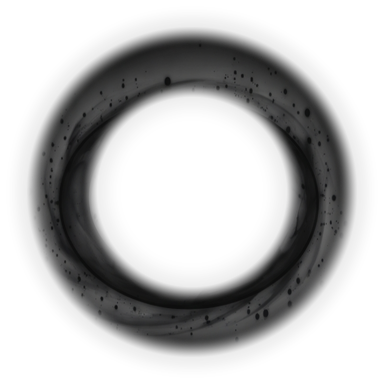
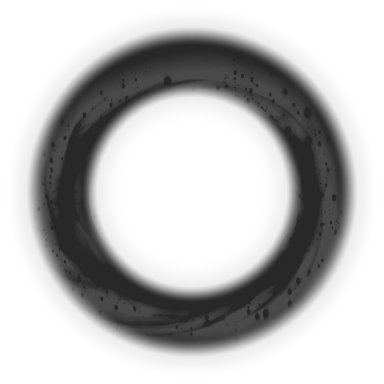
更

diff --git a/天堂網頁版/index.html b/天堂網頁版/index.html
@@ -1,4 +1,4 @@
-<!doctype html><html lang="zh-Hant"><meta charset="utf-8"><meta name="viewport" content="width=device-width,initial-scale=1,viewport-fit=cover"><link rel="stylesheet" href="mobile.css"><link rel="stylesheet" href="data/entry-screens.css?v=20261105-clean17"><link rel="stylesheet" href="data/character-creation.css?v=dice-button-top2"><link rel="stylesheet" href="data/game-stage.css?v=layout-fix"><link rel="stylesheet" href="data/reference-menu.css?v=panel-ground-input1"><link rel="stylesheet" href="data/reference-skin.css?v=1"><link rel="stylesheet" href="data/game-catalog.css?v=approved-rings6"><title>天堂網頁版｜說話之島</title><style>
+<!doctype html><html lang="zh-Hant"><meta charset="utf-8"><meta name="viewport" content="width=device-width,initial-scale=1,viewport-fit=cover"><link rel="stylesheet" href="mobile.css"><link rel="stylesheet" href="data/entry-screens.css?v=20261105-clean17"><link rel="stylesheet" href="data/character-creation.css?v=dice-button-top2"><link rel="stylesheet" href="data/game-stage.css?v=layout-fix"><link rel="stylesheet" href="data/reference-menu.css?v=panel-ground-input1"><link rel="stylesheet" href="data/reference-skin.css?v=1"><link rel="stylesheet" href="data/game-catalog.css?v=reverse-rings7"><title>天堂網頁版｜說話之島</title><style>
 *{box-sizing:border-box}body{margin:0;background:#101a19;color:#eef2df;font:15px system-ui}button,select{font:inherit;color:inherit}button{cursor:pointer;touch-action:manipulation}button:focus-visible,select:focus-visible{outline:3px solid #f8d48c}header{height:68px;display:flex;align-items:center;justify-content:space-between;padding:0 24px;background:#162320;border-bottom:1px solid #ffffff18}h1{font-size:19px;margin:0;letter-spacing:3px}small{color:#acbbab;font-size:12px}.pill{border:1px solid #708071;border-radius:30px;padding:6px 12px;font-size:12px}.game{height:calc(100dvh - 68px);min-height:410px;position:relative;overflow:hidden;background:radial-gradient(ellipse at 50% 45%,#667259 0,#344d3e 40%,#21382f 75%)}.grid{position:absolute;inset:0;opacity:.18;background-image:linear-gradient(30deg,transparent 49.7%,#b8c3a2 50%,transparent 50.3%),linear-gradient(150deg,transparent 49.7%,#b8c3a2 50%,transparent 50.3%);background-size:100px 58px}.path{position:absolute;left:38%;top:-20%;width:18%;height:145%;background:#c5b48a25;transform:rotate(35deg);border-left:2px solid #d0c79c15;border-right:2px solid #d0c79c15}.hud{position:absolute;top:18px;left:20px;width:240px;background:#12231de6;padding:14px;border:1px solid #a2b29340;border-radius:16px}.row{display:flex;justify-content:space-between;align-items:center;gap:10px}.portrait{width:42px;height:42px;border-radius:12px;background:#bdb595;color:#26392d;display:grid;place-items:center;font-size:23px}.bar{height:8px;background:#ffffff15;border-radius:8px;margin-top:8px;overflow:hidden}.bar i{display:block;height:100%;background:#b1c786;width:78%}.bar.mana i{background:#79afc9;width:64%}.nav{position:absolute;right:18px;top:18px;display:flex;gap:8px}.nav button,.panel button{background:#172a24ed;border:1px solid #a2b29355;padding:12px 16px;border-radius:12px;min-height:48px}.location{position:absolute;top:92px;right:22px;text-align:right}.location strong{font-size:22px;letter-spacing:4px}.location small{display:block;margin-top:5px}.actor{position:absolute;left:50%;top:48%;transform:translate(-50%,-50%);text-align:center;transition:left .12s,top .12s}.actor .body{margin:8px auto;width:38px;height:56px;border-radius:15px 15px 10px 10px;background:linear-gradient(90deg,#a8b7a5,#e2e0be,#8eaa99);box-shadow:0 18px 12px #101a1977;position:relative}.body:before{content:'';position:absolute;width:22px;height:22px;background:#d1ba8c;border:5px solid #657b71;border-radius:50%;top:-16px;left:8px}.body:after{content:'';position:absolute;width:5px;height:48px;background:#e1d8ad;right:-12px;top:2px;transform:rotate(20deg)}.actor small{background:#13271ece;border-radius:20px;padding:4px 10px;color:#e1e8cc}.note{position:absolute;top:47%;left:15%;font-size:12px;color:#d4dfc1a0;max-width:120px;line-height:1.8}.bottom{position:absolute;bottom:22px;left:22px;right:22px;display:flex;align-items:flex-end;justify-content:space-between;gap:12px}.pad{display:grid;grid-template:repeat(3,45px)/repeat(3,45px);gap:4px;background:#14291f99;padding:9px;border-radius:50%}.pad button{border:0;border-radius:50%;background:#e3e8cb19;font-size:22px}.pad button:nth-child(1){grid-area:1/2}.pad button:nth-child(2){grid-area:2/1}.pad button:nth-child(3){grid-area:2/3}.pad button:nth-child(4){grid-area:3/2}.actions{display:flex;align-items:flex-end;gap:10px}.skill{width:66px;height:66px;background:#182b25e8;border:1px solid #aebd8a88;border-radius:20px;font-size:22px}.skill span,.attack span{display:block;font-size:12px;margin-top:4px}.attack{height:100px;width:100px;border-radius:50%;border:2px solid #e8d5a0;background:#c7b37c;color:#203127;font-size:30px;box-shadow:0 4px 30px #0004}.log{position:absolute;left:205px;bottom:30px;font-size:12px;color:#d5dfc8;max-width:260px;line-height:1.8}.toast{position:absolute;left:50%;top:25%;transform:translateX(-50%);background:#10241fed;padding:12px 22px;border:1px solid #b2c19366;border-radius:40px;opacity:0;transition:opacity .2s;pointer-events:none;white-space:nowrap}.panel{position:absolute;inset:12% 20%;padding:24px;background:#142620fa;border:1px solid #a9b98b77;border-radius:22px;z-index:4;box-shadow:0 20px 90px #0008;overflow:auto}.panel[hidden]{display:none}.panel h2{margin-top:0;font-size:22px}.slots{display:grid;grid-template-columns:repeat(4,1fr);gap:10px;margin:16px 0}.slot{padding:20px 8px;border:1px solid #ffffff20;border-radius:12px;text-align:center;color:#c3ccb6}.close{float:right}.footer-note{position:absolute;bottom:5px;left:50%;transform:translateX(-50%);font-size:10px;white-space:nowrap;color:#c5d0ba88}select{background:#1d3329;padding:10px;border:1px solid #80916e;border-radius:10px}.pulse{animation:pulse .3s}@keyframes pulse{50%{filter:brightness(2);transform:scale(1.12)}}@media(max-width:650px){header{height:52px;padding:0 14px}h1{font-size:15px}.game{height:calc(100dvh - 52px)}.hud{width:180px;padding:10px;left:10px;top:10px}.nav{top:10px;right:10px}.nav button{padding:10px}.location{top:88px;right:14px}.note{display:none}.panel{inset:8% 5%}.bottom{left:10px;right:10px;bottom:22px}.log{left:15px;bottom:190px;max-width:180px}.skill{width:54px;height:58px}.attack{height:82px;width:82px}.actions{gap:5px}.pill{font-size:10px}.pad{grid-template:repeat(3,38px)/repeat(3,38px)}.slots{grid-template-columns:repeat(2,1fr)}}
 </style><link rel="stylesheet" href="data/area-loot.css?v=1"><link rel="stylesheet" href="data/portable-teleport.css?v=auto-left-position2"><link rel="stylesheet" href="data/party-hud.css?v=1"><link rel="stylesheet" href="data/diamond-commerce.css?v=1"><link rel="stylesheet" href="data/reference-ui.css?v=item-detail-picture1" data-reference-ui><link rel="stylesheet" href="rpg-hud.css" data-hud-style><style>header{display:none!important}.game{height:100dvh!important;min-height:0!important}.grid,.path,#scene-fallback{display:none!important}[hidden]{display:none!important}</style><section id="login-screen" class="entry-screen" aria-label="帳號登入">
   <div class="entry-stage login-stage">
@@ -70,5 +70,5 @@
 <script defer src="data/item-use-data.js?v=20261105-clean17"></script>
 <script defer src="data/db-native-catalog.js?v=1"></script><script defer src="data/item-icon-overrides.js?v=clan-scroll2"></script><script defer src="data/book-icons.js?v=1"></script><script defer src="data/db-active-settings.js?v=1"></script><script defer src="data/owned-inventory.js?v=abilities1"></script>
 <script defer src="data/inventory-tools.js?v=auto-sell1"></script><script defer src="data/classic-panels.js?v=abilities1"></script>
-<script defer src="data/reference-hud.js?v=darkelf-art2"></script><script defer src="data/reference-menu.js?v=level-quests1"></script><script defer src="data/reference-skin.js?v=level-quests1"></script><script defer src="data/game-catalog-data.js?v=sys1"></script><script defer src="data/doll-dedup.js?v=1"></script><script defer src="data/transform-cards-data.js?v=green-classics1"></script><script defer src="data/monster-action-index.js?v=1"></script><script defer src="data/morph-weapon-data.js?v=1"></script><script defer src="data/death-knight-layer-data.js?v=1"></script><script defer src="data/death-knight-original-data.js?v=1"></script><script defer src="data/original-polymorph-extra-data.js?v=3"></script><script defer src="data/bow-attack-data.js?v=1"></script><script defer src="data/monster-actions.js?v=bow-animation1"></script><script defer src="data/island-monster-data.js?v=native-source1"></script><script defer src="data/dungeon-monster-data.js?v=forgotten-islands1"></script><script defer src="data/npc-clothes-data.js?v=1"></script><script defer src="data/monster-layer-data.js?v=1"></script><script defer src="data/monster-death-data.js?v=1"></script><script defer src="data/island-npc-ai.js?v=mummy-core-delay2"></script><script defer src="data/teleporter-data.js?v=1"></script><script defer src="data/island-monsters.js?v=level-quests1"></script><script defer src="data/npc-context.js?v=1"></script><script defer src="data/fake-players.js?v=independent-hunt1"></script><script defer src="data/island-combat.js?v=dex-ranged1"></script><script defer src="data/extra-transform-cards-data.js?v=remove-english-cards1"></script><script defer src="data/removed-transform-cards.js?v=remove-equipment2"></script><script defer src="data/transform-weapon-rules.js?v=bow-animation1"></script><script defer src="data/transform-cards.js?v=all-original2"></script><script defer src="data/equipment-collection.js?v=separate-catalog-menu1"></script><script defer src="data/game-catalog.js?v=approved-rings6"></script><script defer src="data/tdj-systems-data.js?v=wuhun-gilr50"></script><script defer src="data/wuhun-boss-loop-data.js?v=1"></script><script defer src="data/wuhun-boss-gesture-data.js?v=1"></script><script defer src="data/wuhun-auto-data.js?v=wuhun-body1"></script><script defer src="data/wuhun-more-effects.js?v=1"></script><script defer src="data/wuhun-auto-cast.js?v=long-pause1"></script><script defer src="data/soul-ring-visuals.js?v=approved-rings6"></script><script defer src="data/tdj-systems.js?v=approved-rings6"></script><script defer src="data/soul-rings.js?v=soul-slots1"></script><script defer src="data/music-zones-data.js?v=1"></script><script defer src="data/island-music.js?v=zones1"></script><script defer src="data/combat-sound-data.js?v=2"></script><script defer src="data/combat-sound.js?v=1"></script><script defer src="data/island-npc-service-data.js?v=1"></script><script defer src="data/native-npc-dialog-data.js?v=1"></script><script defer src="data/native-npc-dialogs.js?v=no-craft-npc1"></script><script defer src="data/island-npc-services.js?v=no-craft-npc1"></script><script defer src="data/player-skill-data.js?v=1"></script><script defer src="data/extra-class-skills.js?v=1"></script><script defer src="data/player-skills.js?v=abilities1"></script><script defer src="data/kill-reward-data.js?v=native-source1"></script><script defer src="data/removed-items.js?v=1"></script><script defer src="data/player-progression.js?v=soul-rings1"></script><script defer src="data/player-growth-data.js?v=darkelf1"></script><script defer src="data/player-growth.js?v=combat-audit1"></script><script defer src="data/database/manifest.js?v=1"></script><script defer src="data/game-database.js?v=1"></script><script defer src="data/db-game-rules.js?v=death-proof1"></script><script defer src="data/local-server-client.js?v=lawful-colors1"></script><script defer src="data/native-potions.js?v=status-colors1"></script><script defer src="data/quick-slots.js?v=wheel2"></script><script defer src="data/quick-slot-settings.js?v=1"></script><script defer src="data/background-play.js?v=quick-home1"></script><script defer src="data/bag-details.js?v=multi-windows1"></script><script defer src="data/map-region-labels.js?v=1"></script><script defer src="data/map-overview.js?v=dungeon1"></script><script defer src="data/teleport-map-rules.js?v=quick-home1"></script><script defer src="data/teleport-scrolls.js?v=dungeon1"></script><script defer src="data/npc-effect-data.js?v=1"></script><script defer src="data/potion-effect-data.js?v=all-potions2"></script><script defer src="data/npc-effect-renderer.js?v=all-potions2"></script><script defer src="data/screen-settings.js?v=1"></script><script defer src="data/bookmarks.js?v=dungeon1"></script><script defer src="data/floating-windows.js?v=1"></script><script defer src="data/teleporter-services.js?v=1"></script><script defer src="data/auto-sell-data.js?v=1"></script><script defer src="data/auto-sell.js?v=inventory-drawer1"></script><script defer src="data/auto-potion.js?v=abilities1"></script><script defer src="data/assist-system.js?v=abilities1"></script><script defer src="data/item-effects.js?v=2"></script><script defer src="data/player-stall.js?v=5"></script><script defer src="data/crafting-window.js?v=death-proof1"></script><script defer src="data/level-quest-data.js?v=10"></script><script defer src="data/level-quest-frames.js?v=5"></script><script defer src="data/level-quests.js?v=2"></script><script defer src="data/native-combat-rules.js?v=mummy-core-delay2"></script><script defer src="data/navigation-connectivity-data.js?v=native-source1"></script><script defer src="data/navigation-connectivity.js?v=dungeon1"></script><script defer src="data/native-collision-data.js?v=1"></script><script defer src="data/native-dungeon-maps.js?v=forgotten-islands1"></script><script defer src="data/native-collision.js?v=dungeon1"></script><script defer src="data/native-world-worker.js?v=4"></script><script defer src="data/region-background-index.js?v=forgotten-islands1"></script><script defer src="data/region-background.js?v=1"></script><script defer src="data/native-world.js?v=region-background1"></script><script defer src="data/dungeon-portals.js?v=1"></script><script defer src="data/class-buffs.js?v=mummy-core-delay2"></script><script defer src="data/summons.js?v=9"></script><script defer src="data/native-player-panels.js?v=1"></script><script defer src="data/character-bag-panels.js?v=mummy-core-delay2"></script><script defer src="data/client-classic-hud.js?v=13"></script><script defer src="data/orb-hud.js?v=round-menu18"></script><script defer src="data/overhead-bars.js?v=3"></script><script defer src="data/settings-panel.js?v=power-saving1"></script><script defer src="data/npc-social.js?v=npc-retaliation-potions1"></script><script defer src="data/diamond-commerce.js?v=1"></script><script defer src="data/portable-teleport-data.js?v=forgotten-islands1"></script><script defer src="data/portable-teleport.js?v=forgotten-islands1"></script><script defer src="data/area-loot.js?v=1"></script><script defer src="data/party-hud.js?v=1"></script><script defer src="data/player-appearance.js?v=1"></script></html>
+<script defer src="data/reference-hud.js?v=darkelf-art2"></script><script defer src="data/reference-menu.js?v=level-quests1"></script><script defer src="data/reference-skin.js?v=level-quests1"></script><script defer src="data/game-catalog-data.js?v=sys1"></script><script defer src="data/doll-dedup.js?v=1"></script><script defer src="data/transform-cards-data.js?v=green-classics1"></script><script defer src="data/monster-action-index.js?v=1"></script><script defer src="data/morph-weapon-data.js?v=1"></script><script defer src="data/death-knight-layer-data.js?v=1"></script><script defer src="data/death-knight-original-data.js?v=1"></script><script defer src="data/original-polymorph-extra-data.js?v=3"></script><script defer src="data/bow-attack-data.js?v=1"></script><script defer src="data/monster-actions.js?v=bow-animation1"></script><script defer src="data/island-monster-data.js?v=native-source1"></script><script defer src="data/dungeon-monster-data.js?v=forgotten-islands1"></script><script defer src="data/npc-clothes-data.js?v=1"></script><script defer src="data/monster-layer-data.js?v=1"></script><script defer src="data/monster-death-data.js?v=1"></script><script defer src="data/island-npc-ai.js?v=mummy-core-delay2"></script><script defer src="data/teleporter-data.js?v=1"></script><script defer src="data/island-monsters.js?v=level-quests1"></script><script defer src="data/npc-context.js?v=1"></script><script defer src="data/fake-players.js?v=independent-hunt1"></script><script defer src="data/island-combat.js?v=dex-ranged1"></script><script defer src="data/extra-transform-cards-data.js?v=remove-english-cards1"></script><script defer src="data/removed-transform-cards.js?v=remove-equipment2"></script><script defer src="data/transform-weapon-rules.js?v=bow-animation1"></script><script defer src="data/transform-cards.js?v=all-original2"></script><script defer src="data/equipment-collection.js?v=separate-catalog-menu1"></script><script defer src="data/game-catalog.js?v=reverse-rings7"></script><script defer src="data/tdj-systems-data.js?v=wuhun-gilr50"></script><script defer src="data/wuhun-boss-loop-data.js?v=1"></script><script defer src="data/wuhun-boss-gesture-data.js?v=1"></script><script defer src="data/wuhun-auto-data.js?v=wuhun-body1"></script><script defer src="data/wuhun-more-effects.js?v=1"></script><script defer src="data/wuhun-auto-cast.js?v=long-pause1"></script><script defer src="data/soul-ring-visuals.js?v=reverse-rings7"></script><script defer src="data/tdj-systems.js?v=reverse-rings7"></script><script defer src="data/soul-rings.js?v=soul-slots1"></script><script defer src="data/music-zones-data.js?v=1"></script><script defer src="data/island-music.js?v=zones1"></script><script defer src="data/combat-sound-data.js?v=2"></script><script defer src="data/combat-sound.js?v=1"></script><script defer src="data/island-npc-service-data.js?v=1"></script><script defer src="data/native-npc-dialog-data.js?v=1"></script><script defer src="data/native-npc-dialogs.js?v=no-craft-npc1"></script><script defer src="data/island-npc-services.js?v=no-craft-npc1"></script><script defer src="data/player-skill-data.js?v=1"></script><script defer src="data/extra-class-skills.js?v=1"></script><script defer src="data/player-skills.js?v=abilities1"></script><script defer src="data/kill-reward-data.js?v=native-source1"></script><script defer src="data/removed-items.js?v=1"></script><script defer src="data/player-progression.js?v=soul-rings1"></script><script defer src="data/player-growth-data.js?v=darkelf1"></script><script defer src="data/player-growth.js?v=combat-audit1"></script><script defer src="data/database/manifest.js?v=1"></script><script defer src="data/game-database.js?v=1"></script><script defer src="data/db-game-rules.js?v=death-proof1"></script><script defer src="data/local-server-client.js?v=lawful-colors1"></script><script defer src="data/native-potions.js?v=status-colors1"></script><script defer src="data/quick-slots.js?v=wheel2"></script><script defer src="data/quick-slot-settings.js?v=1"></script><script defer src="data/background-play.js?v=quick-home1"></script><script defer src="data/bag-details.js?v=multi-windows1"></script><script defer src="data/map-region-labels.js?v=1"></script><script defer src="data/map-overview.js?v=dungeon1"></script><script defer src="data/teleport-map-rules.js?v=quick-home1"></script><script defer src="data/teleport-scrolls.js?v=dungeon1"></script><script defer src="data/npc-effect-data.js?v=1"></script><script defer src="data/potion-effect-data.js?v=all-potions2"></script><script defer src="data/npc-effect-renderer.js?v=all-potions2"></script><script defer src="data/screen-settings.js?v=1"></script><script defer src="data/bookmarks.js?v=dungeon1"></script><script defer src="data/floating-windows.js?v=1"></script><script defer src="data/teleporter-services.js?v=1"></script><script defer src="data/auto-sell-data.js?v=1"></script><script defer src="data/auto-sell.js?v=inventory-drawer1"></script><script defer src="data/auto-potion.js?v=abilities1"></script><script defer src="data/assist-system.js?v=abilities1"></script><script defer src="data/item-effects.js?v=2"></script><script defer src="data/player-stall.js?v=5"></script><script defer src="data/crafting-window.js?v=death-proof1"></script><script defer src="data/level-quest-data.js?v=10"></script><script defer src="data/level-quest-frames.js?v=5"></script><script defer src="data/level-quests.js?v=2"></script><script defer src="data/native-combat-rules.js?v=mummy-core-delay2"></script><script defer src="data/navigation-connectivity-data.js?v=native-source1"></script><script defer src="data/navigation-connectivity.js?v=dungeon1"></script><script defer src="data/native-collision-data.js?v=1"></script><script defer src="data/native-dungeon-maps.js?v=forgotten-islands1"></script><script defer src="data/native-collision.js?v=dungeon1"></script><script defer src="data/native-world-worker.js?v=4"></script><script defer src="data/region-background-index.js?v=forgotten-islands1"></script><script defer src="data/region-background.js?v=1"></script><script defer src="data/native-world.js?v=region-background1"></script><script defer src="data/dungeon-portals.js?v=1"></script><script defer src="data/class-buffs.js?v=mummy-core-delay2"></script><script defer src="data/summons.js?v=9"></script><script defer src="data/native-player-panels.js?v=1"></script><script defer src="data/character-bag-panels.js?v=mummy-core-delay2"></script><script defer src="data/client-classic-hud.js?v=13"></script><script defer src="data/orb-hud.js?v=round-menu18"></script><script defer src="data/overhead-bars.js?v=3"></script><script defer src="data/settings-panel.js?v=power-saving1"></script><script defer src="data/npc-social.js?v=npc-retaliation-potions1"></script><script defer src="data/diamond-commerce.js?v=1"></script><script defer src="data/portable-teleport-data.js?v=forgotten-islands1"></script><script defer src="data/portable-teleport.js?v=forgotten-islands1"></script><script defer src="data/area-loot.js?v=1"></script><script defer src="data/party-hud.js?v=1"></script><script defer src="data/player-appearance.js?v=1"></script></html>
 

diff --git a/天堂網頁版/data/soul-ring-visuals.js b/天堂網頁版/data/soul-ring-visuals.js
@@ -10,12 +10,12 @@ window.SoulRingVisuals=(()=>{
    svg.innerHTML=`<image href="assets/interface/wuhun-rings/dragon-atlas.png?v=2" width="3840" height="4608"><animate attributeName="x" values="${xs}" dur="10s" calcMode="discrete" repeatCount="indefinite"/><animate attributeName="y" values="${ys}" dur="10s" calcMode="discrete" repeatCount="indefinite"/></image>`;
   }else{
    const n=Math.min(5,Math.max(0,level-1));
-   svg.innerHTML=`<image href="assets/interface/wuhun-rings/ring-live-${n+1}.png?v=approved2" width="384" height="384"/>`;
+   svg.innerHTML=`<image href="assets/interface/wuhun-rings/ring-live-${n+1}.png?v=approved3" width="384" height="384"/>`;
   }
   return svg;
  }
- // Six horizontal hoops rise from the feet to above the shoulders.
- const layout=Object.freeze(Array.from({length:6},(_,i)=>Object.freeze({radius:22+i*2,rise:i*12})));
+ // White is the smallest, highest hoop; red is the widest hoop at the feet.
+ const layout=Object.freeze(Array.from({length:6},(_,i)=>Object.freeze({radius:22+i*2,rise:(5-i)*12})));
  function dragonEnabled(slots,tier){return tier==='四神獸'&&Array.isArray(slots)&&slots.length===6&&Array.from(slots).every(id=>id!=null);}
  const dragonLayout=Object.freeze({radius:62,rise:44});
  const showPhantom=tier=>tier!=='四神獸';
